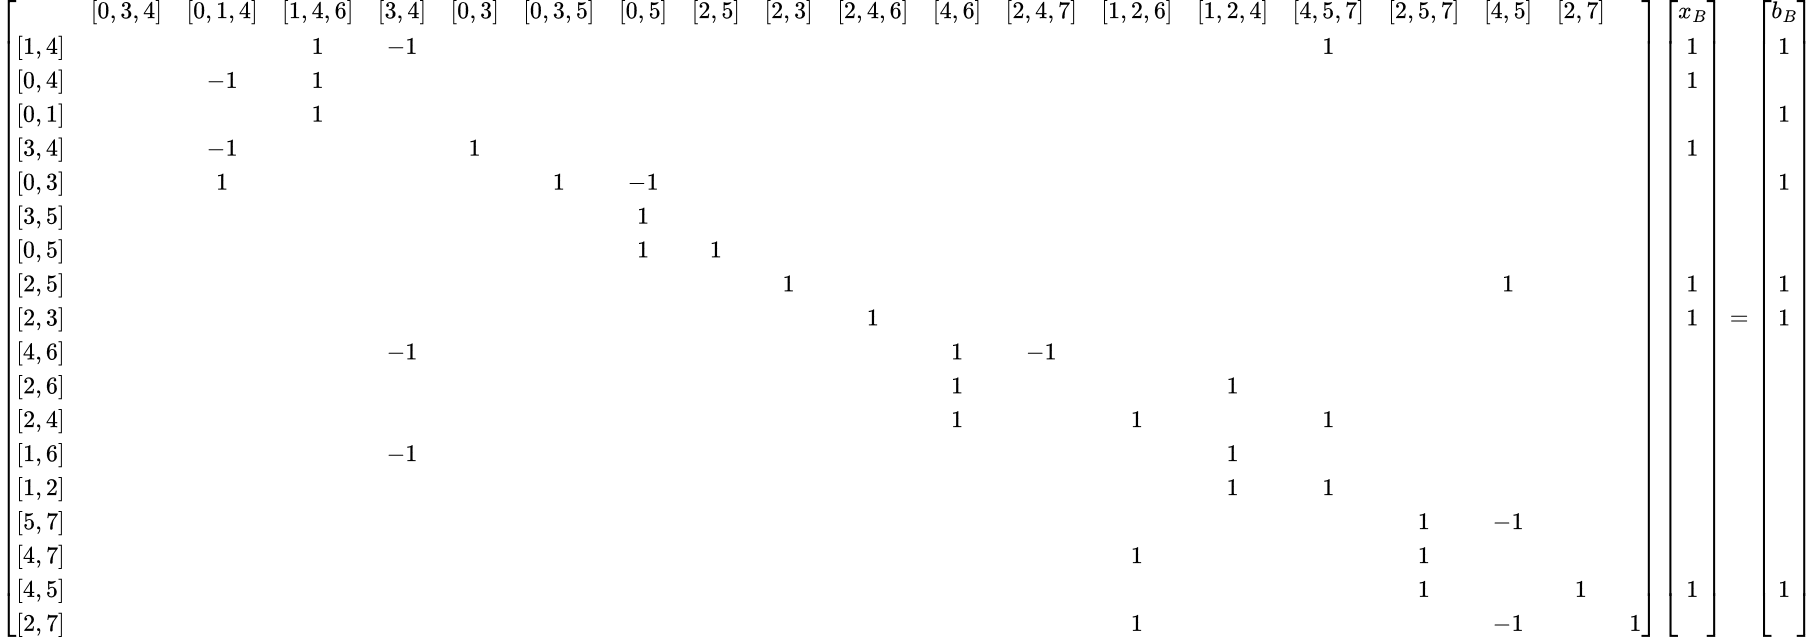
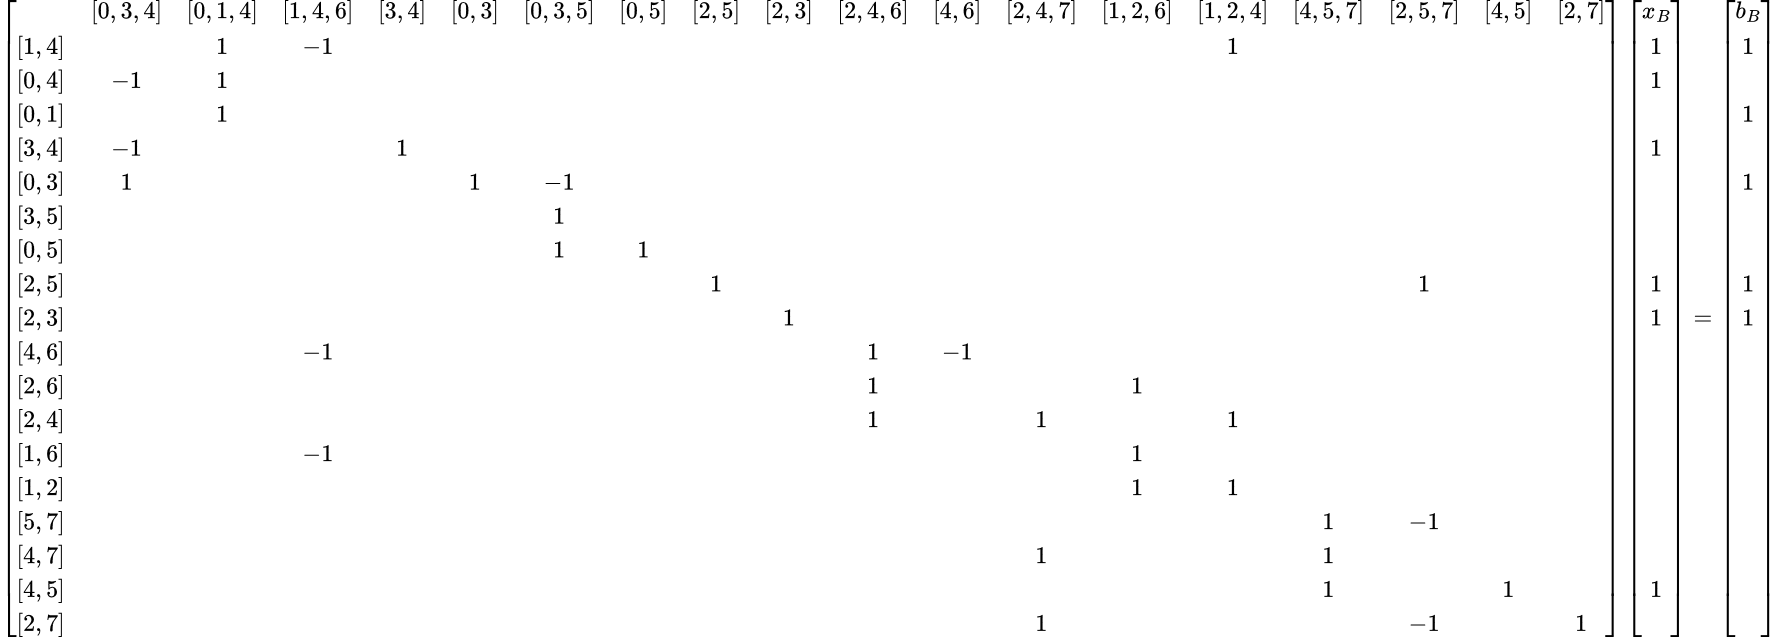
fixed basis matrix

diff --git a/content/Daily/2026/2026-05-14.md b/content/Daily/2026/2026-05-14.md
@@ -107,3 +107,7 @@ We get an integer solution because
 $$
 	\begin{bmatrix}1 & G'\end{bmatrix}b \equiv 0\bmod 2.
 $$
+
+Upon rearranging the $B$, we get the form
+
+![[final_basis_nontu_colswap.png#invert | center]]